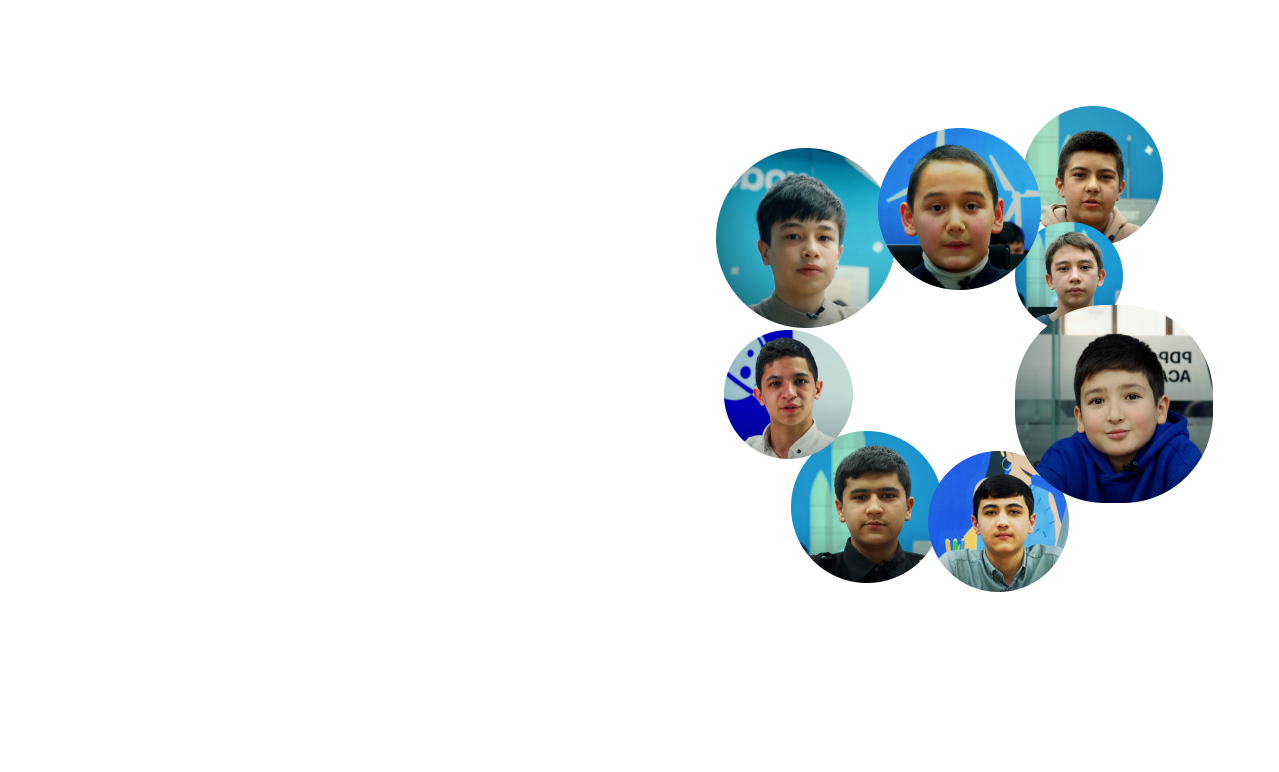
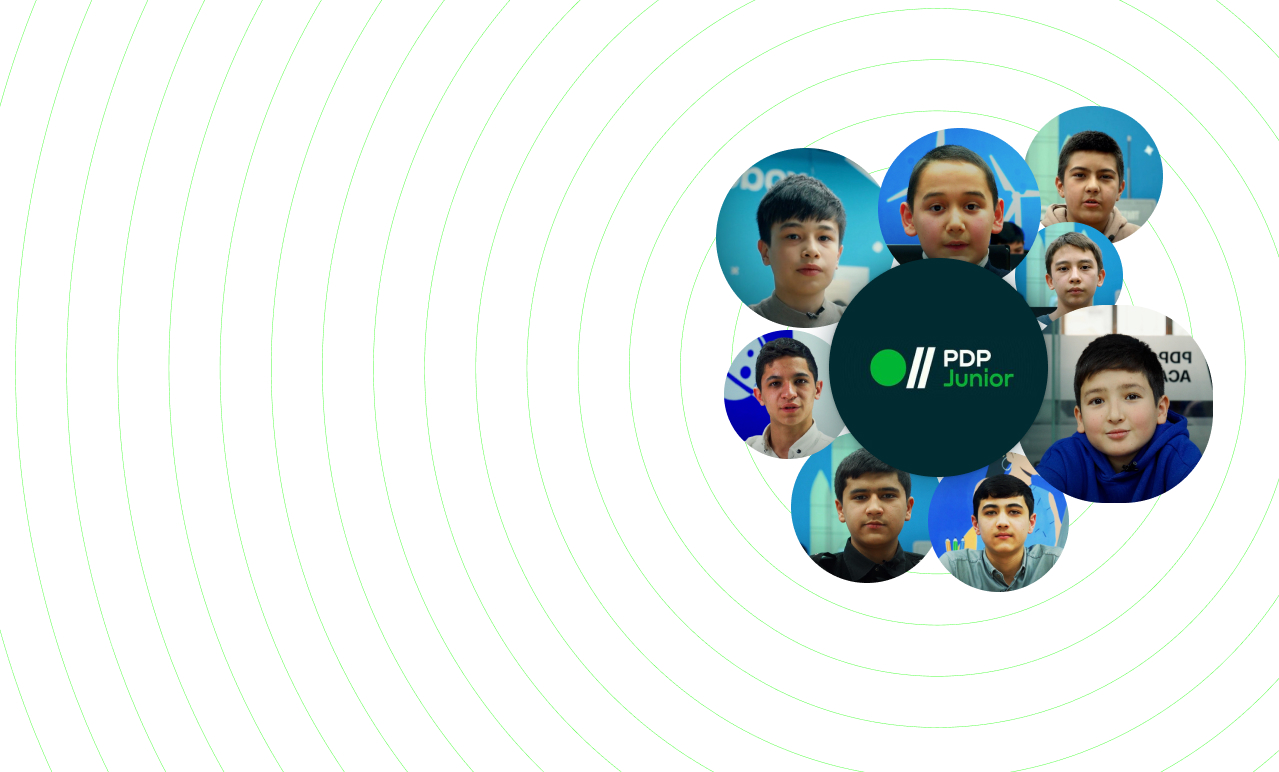
lesson-7 amalyot pdp hero section end

Changed region(s): [[0.6403, 0.3109, 0.8233, 0.6218], [0.7928, 0.9948, 0.8233, 1.0], [0.6403, 0.9948, 0.6708, 1.0]]

diff --git a/lesson-7/src/components/sections/Hero.vue b/lesson-7/src/components/sections/Hero.vue
@@ -1,0 +1,150 @@
+<template>
+  <section id="hero">
+    <Container>
+      <div class="hero--wrapper">
+        <div class="hero--wrapper--card">
+          <h1 class="hero--wrapper--card-title">
+            PDP Junior – IT kelajakni shu yerdan boshlang!
+          </h1>
+          <div class="hero--wrapper--card--body">
+            <div
+              class="hero--wrapper--card--body--info"
+              v-for="(el, i) in cardInfo"
+              :key="i"
+            >
+              <h3 class="hero--wrapper--card--body--info-num">{{ el?.title }}</h3>
+              <div class="hero--wrapper--card--body--info-title">
+                <h3>
+                  {{ el?.infoTitle }}
+                </h3>
+                <p>{{ el?.infoText }}</p>
+              </div>
+            </div>
+          </div>
+        </div>
+        <div class="hero--wrapper--card-bg"></div>
+      </div>
+    </Container>
+  </section>
+</template>
+
+<script setup>
+import Container from "../containers/container.vue";
+
+const cardInfo = [
+  {
+    title: "1",
+    infoTitle: "Sifatli Ta’lim",
+    infoText: "5 yildan beri katta-yu kichik dasturchilarni yetishtirib chiqarmoqda",
+  },
+  {
+    title: "2",
+    infoTitle: "Bilim va ko’nikma",
+    infoText: "Yoshlar dasturlash va tanqidiy fikrlash ko'nikmalariga ega bo'lishmoqda",
+  },
+  {
+    title: "3",
+    infoTitle: "Natija",
+    infoText: "Algoritmlar orqali masalalar yechib, kichik oʻyinlar yasashmoqda",
+  },
+];
+</script>
+
+<style lang="scss" scoped>
+#hero {
+  background-image: url(../../assets/images/hero-bg.png);
+  background-position: center;
+  background-size: center;
+  background-repeat: no-repeat;
+  width: 100%;
+  height: 772px;
+  flex-shrink: 0;
+
+  .hero--wrapper {
+    width: 100%;
+    height: 772px;
+    display: flex;
+    align-items: center;
+    justify-content: start;
+    position: relative;
+
+    &--card {
+      width: 483px;
+      height: 456px;
+      flex-shrink: 0;
+      border-radius: 21px;
+      border: 1px solid #e6e6e6;
+      background: #fff;
+      padding: 33px;
+      z-index: 10;
+
+      &-title {
+        color: #012a30;
+        font-size: 31px;
+        font-style: normal;
+        font-weight: 800;
+        line-height: normal;
+        margin-bottom: 15px;
+      }
+
+      &--body {
+        display: flex;
+        flex-direction: column;
+        align-items: start;
+        gap: 23px;
+
+        &--info {
+          display: flex;
+          align-items: start;
+          gap: 20px;
+
+          &-num {
+            width: 45px;
+            height: 45px;
+            flex-shrink: 0;
+            background-color: #dbf9d8;
+            display: flex;
+            align-items: center;
+            justify-content: center;
+            border-radius: 50%;
+            color: #012;
+            font-size: 27px;
+            font-weight: 800;
+          }
+
+          &-title {
+            display: flex;
+            flex-direction: column;
+            align-items: start;
+            gap: 9px;
+
+            h3 {
+              color: #00b534;
+              font-size: 21px;
+              font-weight: 800;
+            }
+
+            p {
+              color: #012a30;
+              font-size: 17px;
+              font-weight: 400;
+            }
+          }
+        }
+      }
+    }
+
+    &--card-bg {
+      position: absolute;
+      top: 158px;
+      left: 0;
+      width: 482.785px;
+      height: 456.419px;
+      transform: rotate(5.383deg);
+      flex-shrink: 0;
+      border-radius: 21px;
+      background: #dbf9d8;
+    }
+  }
+}
+</style>

diff --git a/lesson-7/src/layout/index.vue b/lesson-7/src/layout/index.vue
@@ -1,7 +1,9 @@
 <template>
     <Header/>
+    <Main/>
 </template>
 
 <script setup>
-import Header from "../components/header/index.vue"
+import Header from "../components/header/index.vue";
+import Main from "../components/main/index.vue"
 </script>

diff --git a/lesson-7/src/components/main/index.vue b/lesson-7/src/components/main/index.vue
@@ -1,0 +1,13 @@
+<template>
+   <main>
+     <Hero/>
+   </main> 
+</template>
+
+<script setup>
+import Hero from "../sections/Hero.vue";
+</script>
+
+<style lang="scss" scoped>
+
+</style>

diff --git a/lesson-7/src/style.css b/lesson-7/src/style.css
@@ -5,6 +5,7 @@
    padding: 0;
    box-sizing: border-box;
    scroll-behavior: smooth;
+   font-family: K2D;
 }
 
 a{
